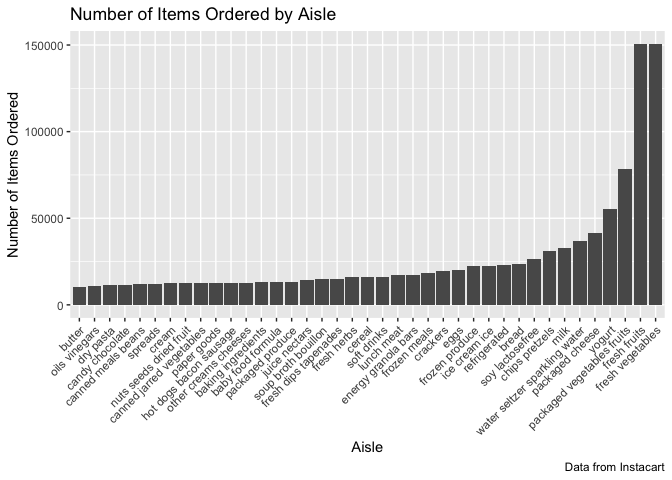
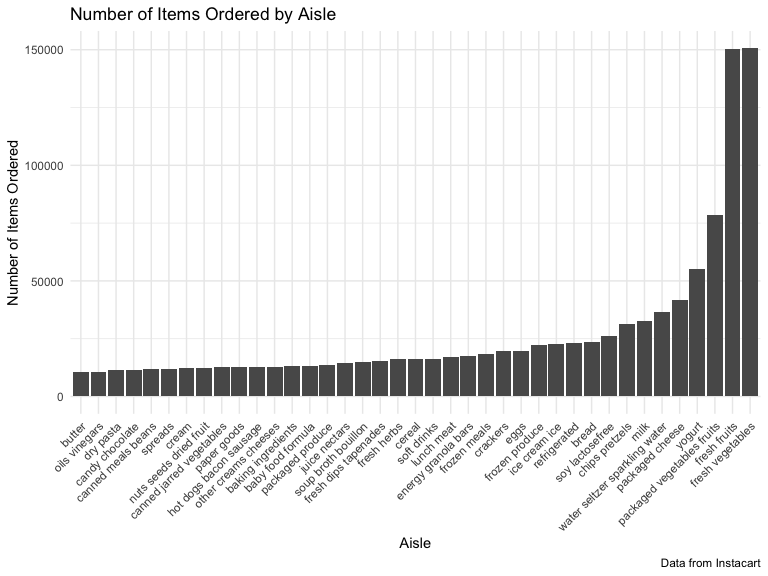
including set up code chunk

diff --git a/p8105_hw3_tal2145.md b/p8105_hw3_tal2145.md
@@ -3,20 +3,21 @@ p8105\_hw3\_tal2145
 Troy Layouni
 2019-10-08
 
-**Loading packages**
+**Loading
+    packages**
 
 ``` r
 library(tidyverse)
 ```
 
-    ## ── Attaching packages ───────────────────── tidyverse 1.2.1 ──
+    ## ── Attaching packages ──────────────────────────────────── tidyverse 1.2.1 ──
 
     ## ✔ ggplot2 3.2.1     ✔ purrr   0.3.2
     ## ✔ tibble  2.1.3     ✔ dplyr   0.8.3
     ## ✔ tidyr   1.0.0     ✔ stringr 1.4.0
     ## ✔ readr   1.3.1     ✔ forcats 0.4.0
 
-    ## ── Conflicts ──────────────────────── tidyverse_conflicts() ──
+    ## ── Conflicts ─────────────────────────────────────── tidyverse_conflicts() ──
     ## ✖ dplyr::filter() masks stats::filter()
     ## ✖ dplyr::lag()    masks stats::lag()
 
@@ -30,6 +31,29 @@ library(ggridges)
     ## The following object is masked from 'package:ggplot2':
     ## 
     ##     scale_discrete_manual
+
+``` r
+library(viridis)
+```
+
+    ## Loading required package: viridisLite
+
+``` r
+knitr::opts_chunk$set(
+    echo = TRUE,
+    warning = FALSE,
+    fig.width = 8, 
+  fig.height = 6,
+  out.width = "90%"
+)
+options(
+  ggplot2.continuous.colour = "viridis",
+  ggplot2.continuous.fill = "viridis"
+)
+scale_colour_discrete = scale_colour_viridis_d
+scale_fill_discrete = scale_fill_viridis_d
+theme_set(theme_minimal() + theme(legend.position = "bottom"))
+```
 
 ## Problem 1
 
@@ -90,7 +114,7 @@ ggplot(aes(x = aisle, y = n)) +
   ) 
 ```
 
-![](p8105_hw3_tal2145_files/figure-gfm/unnamed-chunk-4-1.png)<!-- -->
+<img src="p8105_hw3_tal2145_files/figure-gfm/unnamed-chunk-4-1.png" width="90%" />
 
 **Problem 1, Part 4: Creating a table to show the 3 most popular items
 from each table**
@@ -155,9 +179,9 @@ Instacart: Mean Hour Products are Bought by Day of Week
 
   - Loading BRFSS from the `p8105.datasets` package
   - Cleaning by:
-      - Formating to appropriate variable names
-      - Focusing on the “Overall Health” topic
-      - Including only responses from “Excellent” to “Poor”
+      - Formating to appropriate variable names (snake\_case)
+      - Filtering to only the “Overall Health” topic
+          - This includes only responses from “Excellent” to “Poor”
       - Organizing responses as a factor taking levels ordered from
         “Poor” to “Excellent”
 
@@ -170,27 +194,39 @@ data("brfss_smart2010")
 brfss_smart2010 =
   brfss_smart2010 %>% 
   janitor::clean_names() %>% 
-  filter(topic == "Overall Health") 
-
-brfss_smart2010 %>%  
-  group_by(response) %>% 
-  summarize(
-    n_response = n()
-  )
+  filter(topic == "Overall Health") %>% 
+  mutate(response = fct_relevel(as.factor(response), c("Poor", "Fair", "Good", "Very good", "Excellent"))) 
 ```
 
-    ## # A tibble: 5 x 2
-    ##   response  n_response
-    ##   <chr>          <int>
-    ## 1 Excellent       2125
-    ## 2 Fair            2125
-    ## 3 Good            2125
-    ## 4 Poor            2125
-    ## 5 Very good       2125
+**Problem 2, part 2: States with 7 or more locations**
 
-library(p8105.datasets) data(“brfss\_smart2010”)
+``` r
+brfss_smart2010 %>% 
+  group_by()
+```
 
-brfss\_smart2010 = janitor::clean\_names() %\>% filter(topic == “Overall
-Health”) %\>% group\_by(response) %\>% summarize( n\_question =
-n(response) ) \# mutate(response = as.factor(response)) %\>%
-as.factor(response, levels = c(""))
+    ## # A tibble: 10,625 x 23
+    ##     year locationabbr locationdesc class topic question response
+    ##    <int> <chr>        <chr>        <chr> <chr> <chr>    <fct>   
+    ##  1  2010 AL           AL - Jeffer… Heal… Over… How is … Excelle…
+    ##  2  2010 AL           AL - Jeffer… Heal… Over… How is … Very go…
+    ##  3  2010 AL           AL - Jeffer… Heal… Over… How is … Good    
+    ##  4  2010 AL           AL - Jeffer… Heal… Over… How is … Fair    
+    ##  5  2010 AL           AL - Jeffer… Heal… Over… How is … Poor    
+    ##  6  2010 AL           AL - Mobile… Heal… Over… How is … Excelle…
+    ##  7  2010 AL           AL - Mobile… Heal… Over… How is … Very go…
+    ##  8  2010 AL           AL - Mobile… Heal… Over… How is … Good    
+    ##  9  2010 AL           AL - Mobile… Heal… Over… How is … Fair    
+    ## 10  2010 AL           AL - Mobile… Heal… Over… How is … Poor    
+    ## # … with 10,615 more rows, and 16 more variables: sample_size <int>,
+    ## #   data_value <dbl>, confidence_limit_low <dbl>,
+    ## #   confidence_limit_high <dbl>, display_order <int>,
+    ## #   data_value_unit <chr>, data_value_type <chr>,
+    ## #   data_value_footnote_symbol <chr>, data_value_footnote <chr>,
+    ## #   data_source <chr>, class_id <chr>, topic_id <chr>, location_id <chr>,
+    ## #   question_id <chr>, respid <chr>, geo_location <chr>
+
+summarize(pull(group\_by(location),filter(brfss\_smart2010, year ==
+2002, ), state))
+
+filter to 2002 group by location report
